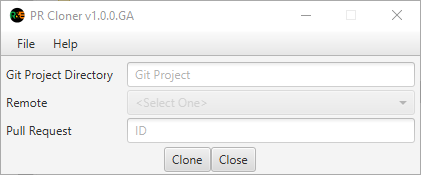
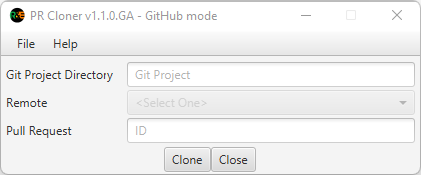
Update release document.

diff --git a/README.md b/README.md
@@ -1,19 +1,19 @@
-### PR Cloner
+# PR Cloner
 
 A simple tool for cloning git pull request.
 
-##### Prerequisite
+## Prerequisite
 
 * Git for Windows
 * A git project
 
-##### Usage
+## Usage
 
 1. Run the **pr-cloner.exe**.
 
-2. Expect to the following window:
-	 	![Application Window](main-application-window.png)
-	
+2. Expect the following window:
+    	![Application Window](main-application-window.png)
+
 3. Fill-up the **Git Project Directory** field to have the git project.
 
      > You can **double click** the **Git Project Directory field** to use the **directory explorer** or use the **File -> Git Project Dir** menu.
@@ -26,9 +26,42 @@ A simple tool for cloning git pull request.
 
 7. Click the **clone button** to clone the pull request.
 
+     > If successful the Pull Request field will turn to green as follows:
+     >
+     > ![](cloning-successful.png)
+
      > If everything is successful, open your **git client** and look for the **local branch name** that has the format **PR<pull request number>**.  You can switch to that branch to review it or do testing on it.
 
 8. Use the **close button** or the **x** at the upper right corner of the window close it.
 
-##### [Changelog](CHANGELOG.md)
+## Changing the mode
+
+The following are the supported modes:
+
+| Repository Type                           | Mode      |
+| ----------------------------------------- | --------- |
+| GitHub Repository *(This is the default)* | github    |
+| Bitbucket Repository                      | bitbucket |
+
+1. **Open** the **directory location** of the **pr-cloner.exe**.
+
+2. **Open** the **conf directory**.
+
+3. Using an editor, **open** the **pr-cloner.properties file**.
+
+4. **Update** the **repoType field** to the appropriate mode. 
+
+   *Opting to use the bitbucket repository update the repoType field to bitbucket like the following:*
+
+   ```properties
+   repoType=bitbucket
+   ```
+
+5. **Save and Close** the **pr-cloner.properties file**.
+
+## [Changelog](CHANGELOG.md)
+
+## License
+
+This project is licensed under the MIT License - see the [LICENSE.md](LICENSE.md) file for details
 

diff --git a/LICENSE.md b/LICENSE.md
@@ -1,0 +1,7 @@
+Copyright 2022 Ronaldo Webb
+
+Permission is hereby granted, free of charge, to any person obtaining a copy of this software and associated documentation files (the "Software"), to deal in the Software without restriction, including without limitation the rights to use, copy, modify, merge, publish, distribute, sublicense, and/or sell copies of the Software, and to permit persons to whom the Software is furnished to do so, subject to the following conditions:
+
+The above copyright notice and this permission notice shall be included in all copies or substantial portions of the Software.
+
+THE SOFTWARE IS PROVIDED "AS IS", WITHOUT WARRANTY OF ANY KIND, EXPRESS OR IMPLIED, INCLUDING BUT NOT LIMITED TO THE WARRANTIES OF MERCHANTABILITY, FITNESS FOR A PARTICULAR PURPOSE AND NONINFRINGEMENT. IN NO EVENT SHALL THE AUTHORS OR COPYRIGHT HOLDERS BE LIABLE FOR ANY CLAIM, DAMAGES OR OTHER LIABILITY, WHETHER IN AN ACTION OF CONTRACT, TORT OR OTHERWISE, ARISING FROM, OUT OF OR IN CONNECTION WITH THE SOFTWARE OR THE USE OR OTHER DEALINGS IN THE SOFTWARE.

diff --git a/CHANGELOG.md b/CHANGELOG.md
@@ -1,5 +1,11 @@
 # Changelog
 
+## 1.1.0 : 2022-08-25
+
+### Added
+
+* Support for both github and bitbucket repositories.
+
 ## 1.0.0 : 2019-10-18
 
 ### Initial Version
